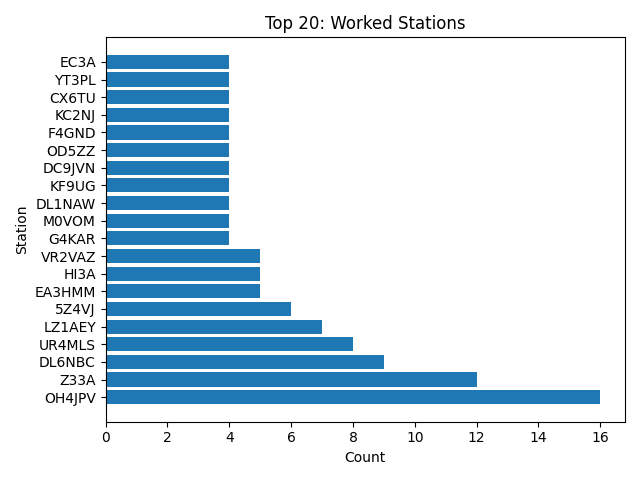
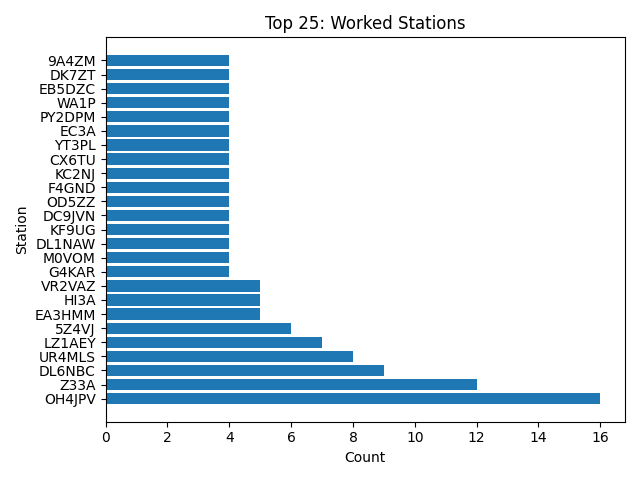
update

Changed region(s): [[0.0625, 0.0938, 0.9375, 0.8438], [0.4688, 0.0312, 0.5, 0.0625]]

diff --git a/main.py b/main.py
@@ -223,6 +223,7 @@ def vis_map(items: [QsoEntity], fp="", fp_html="", static_mode=False):
             # width=1920, height=1080,
             # mapbox_center={"lat": 51.1657 - 25.0, "lon": 10.4515},
             margin=dict(l=0, r=0, t=0, b=0),
+            showlegend=False,
             # dragmode="zoom"
         )
 
@@ -396,11 +397,11 @@ if __name__ == "__main__":
     all_items = [x.call for x in all_qsos_ent]
     counter = Counter(all_items)
     counter = dict(sorted(counter.items(), key=lambda item: item[1], reverse=True))
-    counter = dict(list(counter.items())[:20])
+    counter = dict(list(counter.items())[:25])
     plt.barh(list(counter.keys()), counter.values())
     plt.xlabel("Count")
     plt.ylabel("Station")
-    plt.title("Top 20: Worked Stations")
+    plt.title("Top 25: Worked Stations")
     plt.tight_layout()
     # plt.show()
     plt.savefig(f"{C_WORK_DATA_DIR}/output/stats_top_stations.png")
@@ -409,11 +410,11 @@ if __name__ == "__main__":
     all_items = [x.locator for x in all_qsos_ent]
     counter = Counter(all_items)
     counter = dict(sorted(counter.items(), key=lambda item: item[1], reverse=True))
-    counter = dict(list(counter.items())[:20])
+    counter = dict(list(counter.items())[:25])
     plt.barh(list(counter.keys()), counter.values())
     plt.xlabel("Count")
     plt.ylabel("Locator")
-    plt.title("Top 20: Worked Locators")
+    plt.title("Top 25: Worked Locators")
     plt.tight_layout()
     # plt.show()
     plt.savefig(f"{C_WORK_DATA_DIR}/output/stats_top_locators.png")
@@ -422,11 +423,11 @@ if __name__ == "__main__":
     all_items = [x.country for x in all_qsos_ent]
     counter = Counter(all_items)
     counter = dict(sorted(counter.items(), key=lambda item: item[1], reverse=True))
-    counter = dict(list(counter.items())[:20])
+    counter = dict(list(counter.items())[:25])
     plt.barh(list(counter.keys()), counter.values())
     plt.xlabel("Count")
     plt.ylabel("Country")
-    plt.title("Top 20: Worked Countries")
+    plt.title("Top 25: Worked Countries")
     plt.tight_layout()
     # plt.show()
     plt.savefig(f"{C_WORK_DATA_DIR}/output/stats_top_countries.png")
